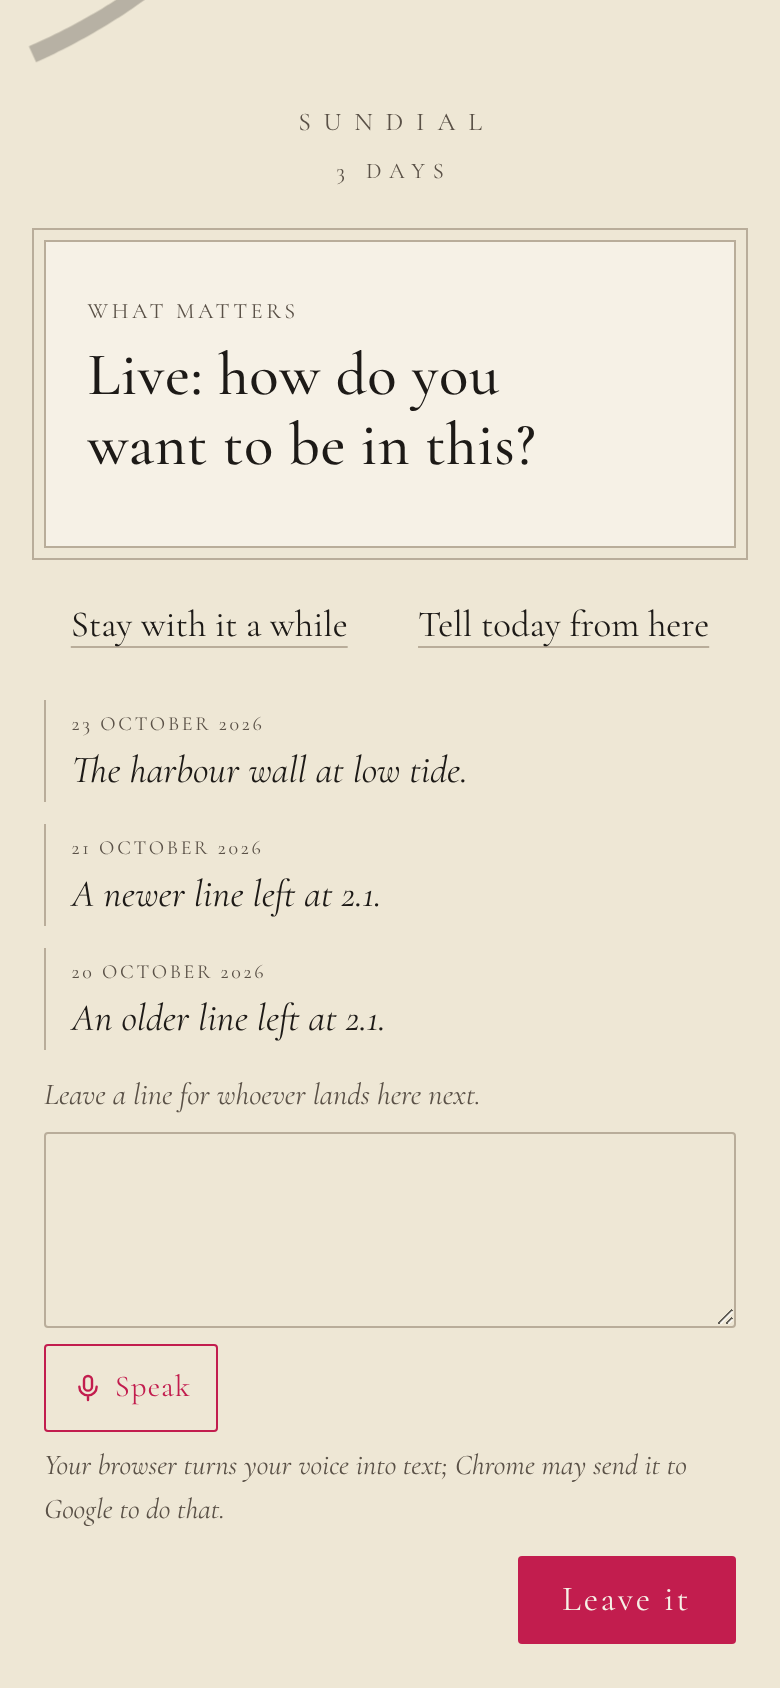
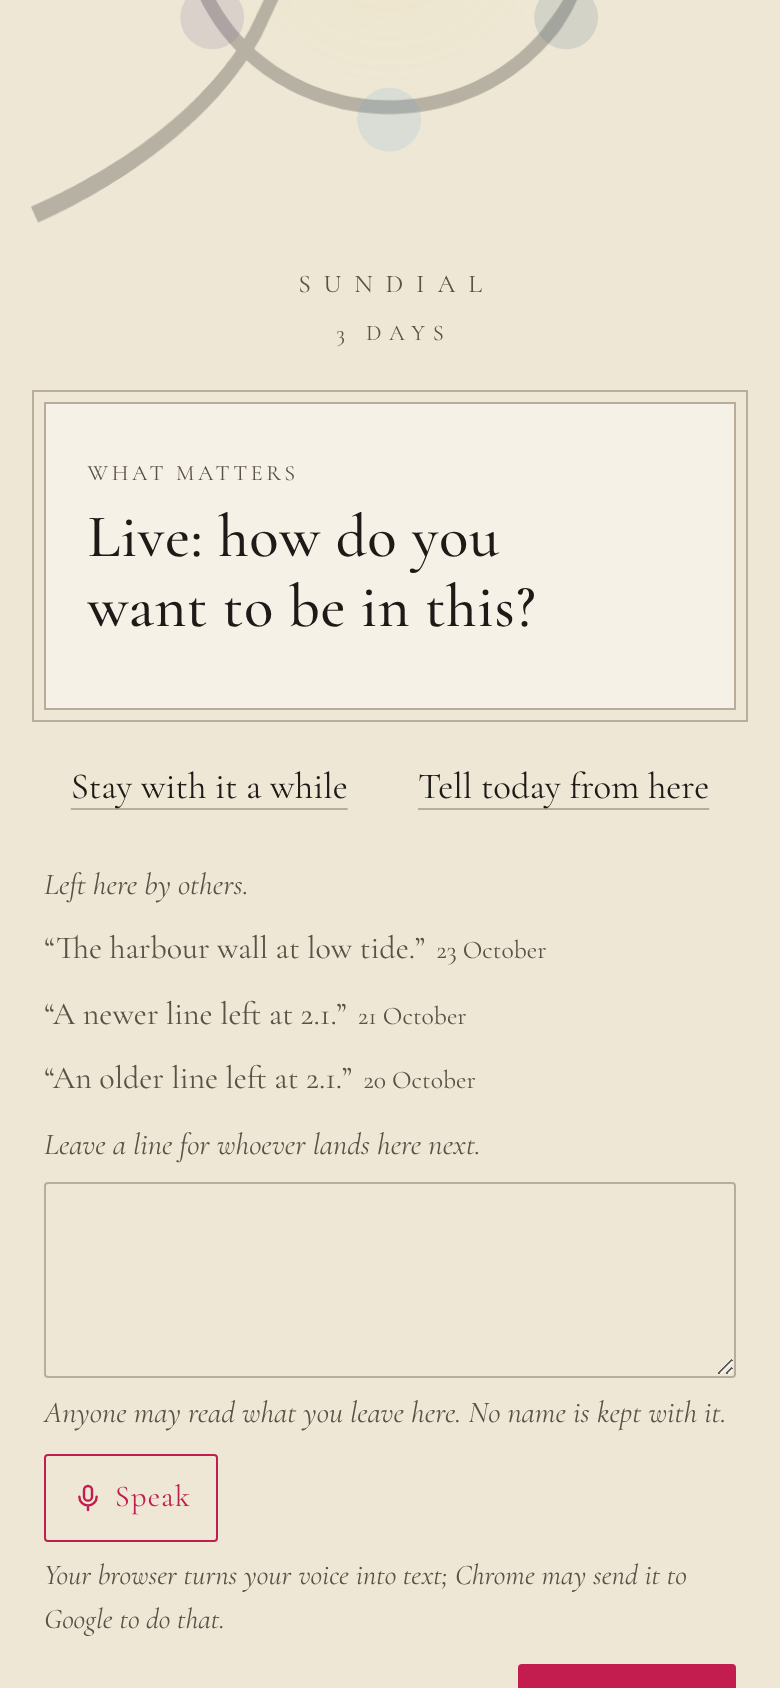
Sundial: lines left by others read as theirs (3.71)
Above the lines a turn shows, a small italic label, 'Left here by
others.' Each line is quoted, in the grey of secondary text and a
smaller type than the sheet's, its date small after it ('20 October'),
never as a heading. Beneath the field, before they leave a line: 'Anyone
may read what you leave here. No name is kept with it.'

Claude-Session: https://claude.ai/code/session_018PPdCn7BnYvdkungaLbvbi

diff --git a/sundial.html b/sundial.html
@@ -499,19 +499,31 @@
     text-align: left;
     margin: 1rem 6px 0;
   }
-  .sd-turn-lines p {
+  /* Lines left by others read as theirs (3.71): a small label above, each
+     a quoted line in the grey of secondary text, never the sheet's own
+     type, its date small after it. */
+  .sd-turn-others {
+    font-size: 0.95rem;
     font-style: italic;
-    margin: 0 0 0.7rem;
-    padding-left: 0.8rem;
-    border-left: 1px solid var(--frame);
+    color: var(--muted);
+    margin: 0 0 0.5rem;
+  }
+  .sd-turn-lines p {
+    font-size: 1rem;
+    line-height: 1.45;
+    color: var(--muted);
+    margin: 0 0 0.6rem;
   }
   .sd-turn-lines time {
-    display: block;
-    font-style: normal;
-    font-size: 0.85rem;
-    font-variant-caps: all-small-caps;
-    letter-spacing: 0.1em;
+    font-size: 0.8rem;
+    margin-left: 0.35rem;
+    white-space: nowrap;
+  }
+  .sd-turn-public {
+    font-size: 0.95rem;
+    font-style: italic;
     color: var(--muted);
+    margin: -0.3rem 0 0.7rem;
   }
   .sd-turn-label {
     display: block;
@@ -1383,9 +1395,11 @@
       <button type="button" class="sd-letgo" id="turn-tell">Tell today from here</button>
     </div>
     <form class="sd-turn-stay" id="turn-stay-box" hidden>
+      <p class="sd-turn-others" id="turn-others" hidden>Left here by others.</p>
       <div class="sd-turn-lines" id="turn-lines"></div>
       <label for="turn-line" class="sd-turn-label">Leave a line for whoever lands here next.</label>
-      <textarea id="turn-line" rows="3" maxlength="600" autocomplete="off"></textarea>
+      <textarea id="turn-line" rows="3" maxlength="600" autocomplete="off" aria-describedby="turn-public"></textarea>
+      <p class="sd-turn-public" id="turn-public">Anyone may read what you leave here. No name is kept with it.</p>
       <p class="sd-soft" id="turn-note" aria-live="polite" hidden></p>
       <div class="sd-send-row"><button type="submit" id="turn-leave">Leave it</button></div>
     </form>
@@ -1605,7 +1619,7 @@
    drawn as absence, and the words they spoke go back into the box. */
 (function () {
   var MODEL = 'claude-sonnet-5-5';          // a current Sonnet
-  var VERSION = 'Sundial M4.4.14 · 23 October 2026';
+  var VERSION = 'Sundial M4.4.15 · 23 October 2026';
   var TURNS_A_DAY = 40;
   var KEY = 'sundial.key', TURNS = 'sundial.turns', NAME = 'sundial.name';
   // The roster's steward (plan 6.6): before the roster is first sealed, only
@@ -3883,16 +3897,20 @@
     turnMine.forEach(function (m) {
       if (!all.some(function (e) { return e.where === m.where && e.text === m.text; })) all.push(m);
     });
-    all.filter(function (e) { return e.where === here.at && e.text && !TURN_HIDE.test(e.text); }).slice(-3).reverse().forEach(function (e) {
-      var row = document.createElement('p'), d = new Date(e.when);
+    var shown = all.filter(function (e) { return e.where === here.at && e.text && !TURN_HIDE.test(e.text); }).slice(-3).reverse();
+    shown.forEach(function (e) {
+      var row = document.createElement('p'), said = document.createElement('q'), d = new Date(e.when);
+      said.textContent = e.text.slice(0, 600);
+      row.appendChild(said);
       if (!isNaN(d)) {
         var t = document.createElement('time');
-        t.textContent = d.toLocaleDateString('en-GB', { day: 'numeric', month: 'long', year: 'numeric' });
+        t.dateTime = e.when;
+        t.textContent = d.toLocaleDateString('en-GB', { day: 'numeric', month: 'long' });
         row.appendChild(t);
       }
-      row.appendChild(document.createTextNode(e.text.slice(0, 600)));
       lines.appendChild(row);
     });
+    $('turn-others').hidden = !shown.length;
   }
   $('turn-stay').addEventListener('click', function () {
     if (!turnNow) return;
@@ -3906,6 +3924,7 @@
     $('turn-line').focus();
   });
   Beach.addMic($('turn-line'), { finals: true });
+  $('turn-line').insertAdjacentElement('afterend', $('turn-public'));
   $('turn-line').addEventListener('input', function () { $('turn-note').hidden = true; });
   $('turn-stay-box').addEventListener('submit', function (ev) {
     ev.preventDefault();
